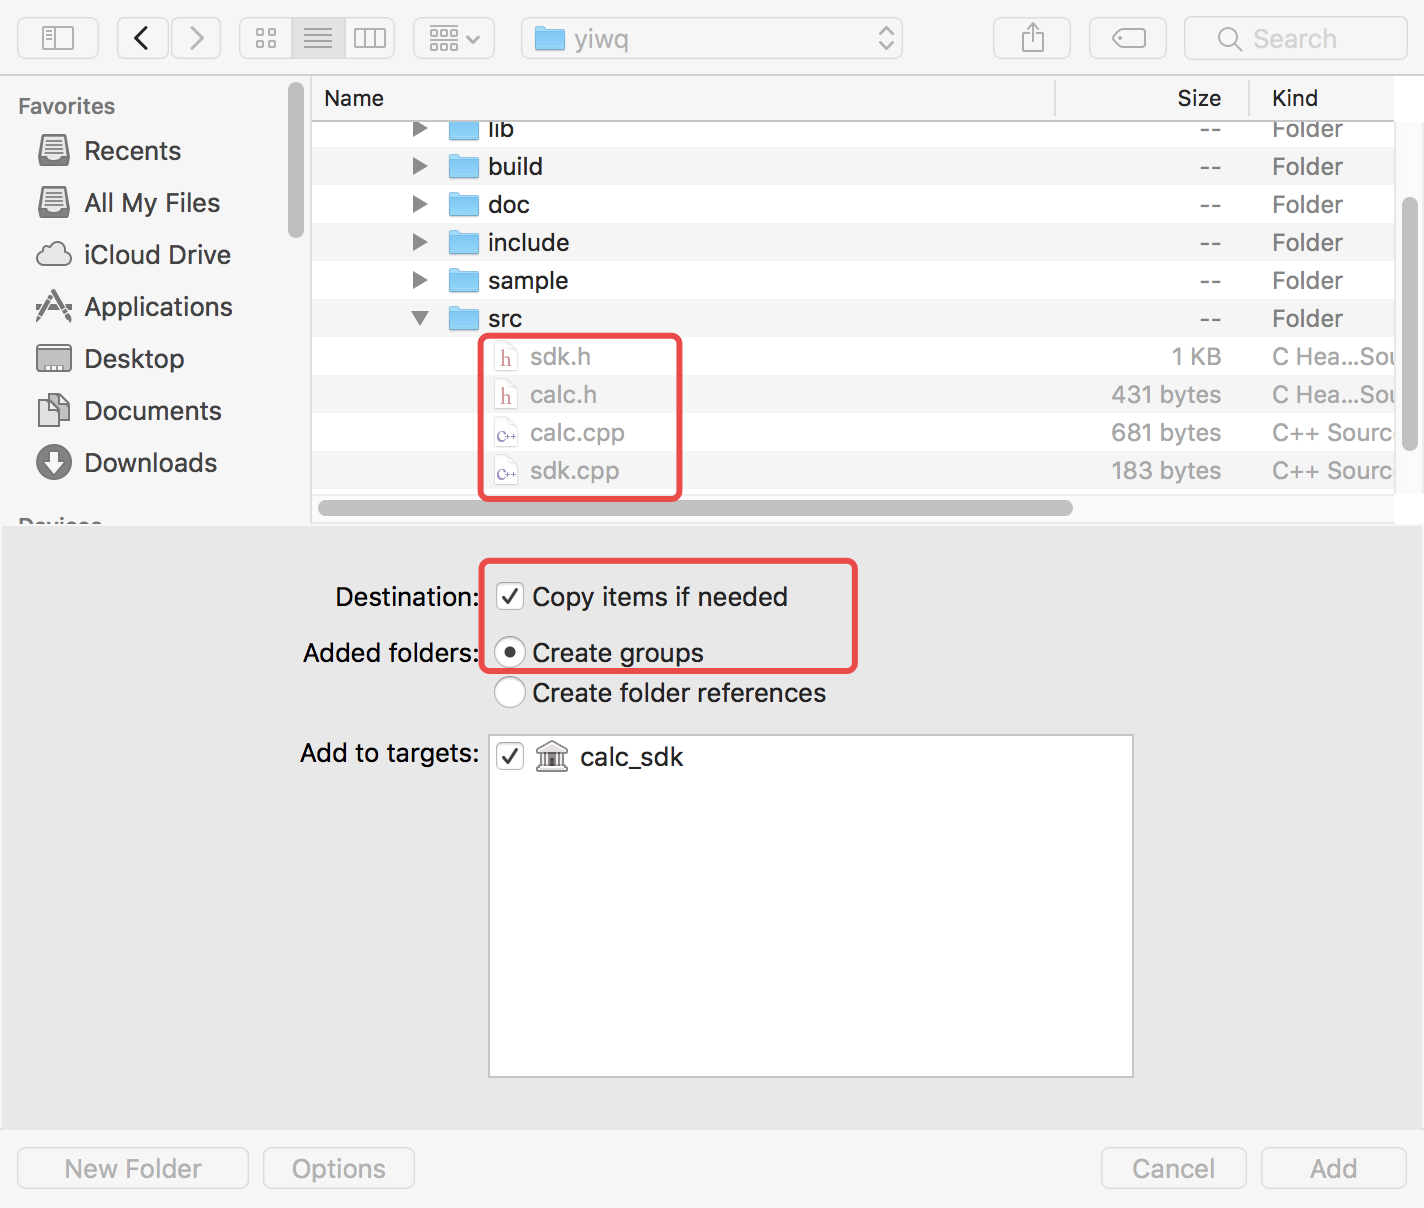
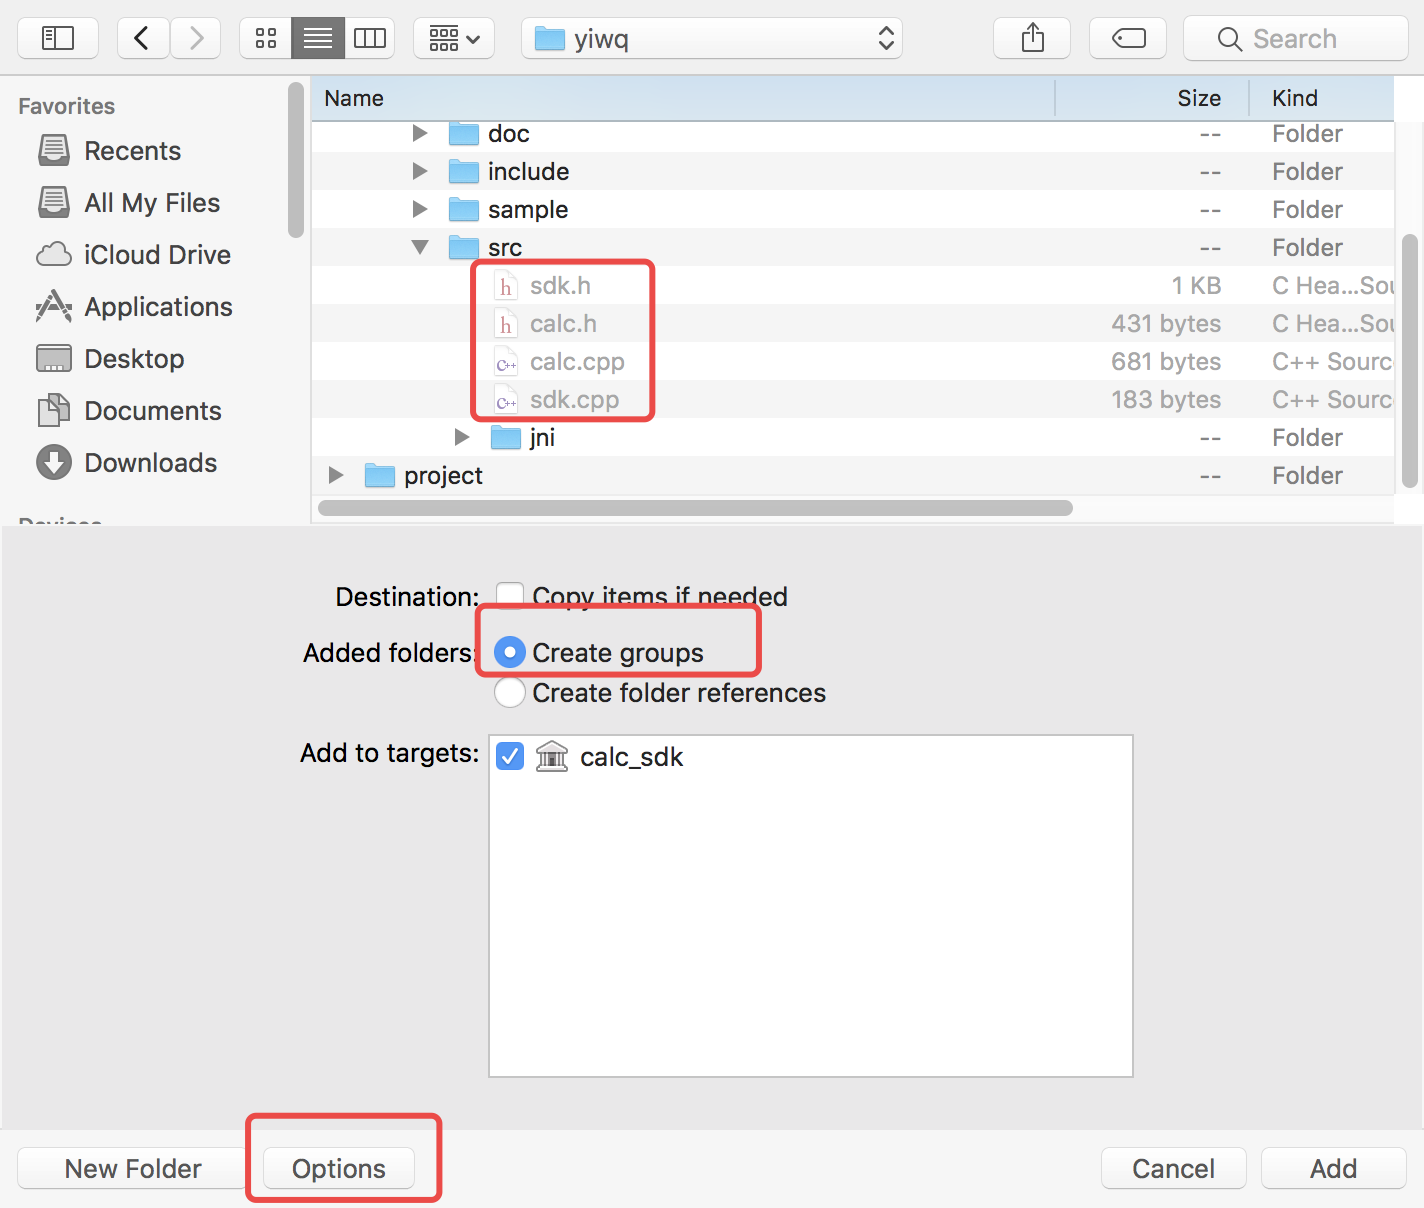
fix doc

diff --git a/doc/doc.md b/doc/doc.md
@@ -160,7 +160,7 @@ SDK_API	void CALLCON jvt_destroy_calc(ICalc* calc);
 在“Product Name”中输入产品名称, 并选择一个目录进行保存，然后点击“Create”, 如图: ![图2](images\ios\a.2.jpg)     
 
 * step3:  
-添加源代码，右键点击项目，在展开的右键菜单中选择“Add Files to...", 选择指定的目录，请务必勾选“Create Groups”, 如图: ![图3](images\ios\a.3.png)  
+添加源代码，右键点击项目，在展开的右键菜单中选择“Add Files to...", 选择指定的目录(src/*, 添加过后文件会变灰)，请务必勾选“Create Groups”。注意，默认情况下“Create Groups”被折叠掩藏了，点击options按钮展开， 如图: ![图3](images\ios\a.3.png)  
 
 * step4:  
 我们可以选择编译一个真机的静态库，或编译任一模拟器（如“iPhone 6”）的静态库。展开“Products”菜单，点击“Build”进行编译（或按住Comand + B进行编译）。  
